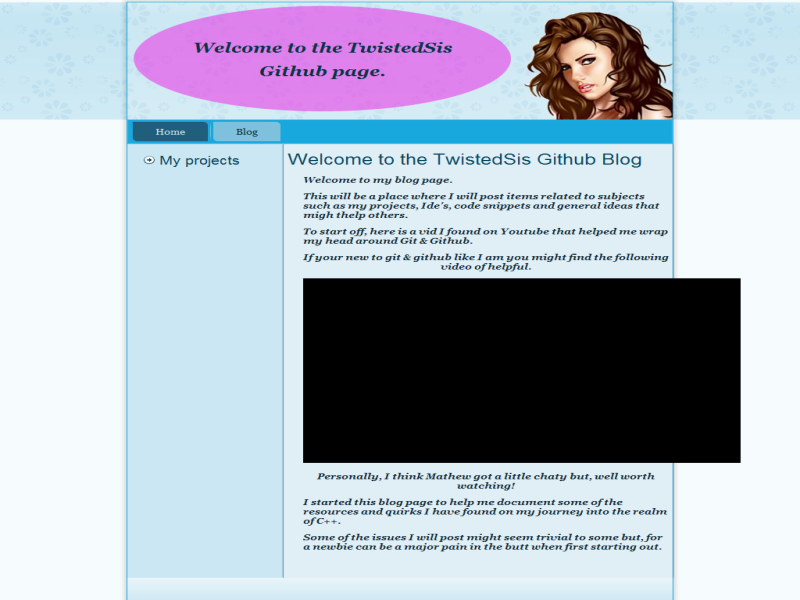
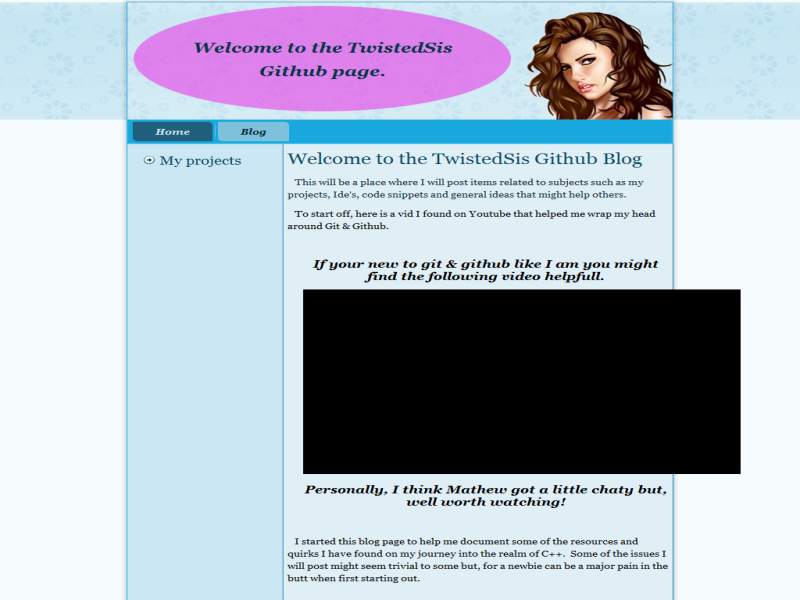
updates

Changed region(s): [[0.1875, 0.21, 0.9375, 0.51], [0.1562, 0.75, 0.9375, 0.99]]

diff --git a/style.css b/style.css
@@ -67,7 +67,8 @@ ul.art-vmenu a
 .art-postcontent a:hover,
 .art-postcontent a.hovered
 {
-   font-family: Arial, 'Arial Unicode MS', Helvetica, Sans-Serif;
+   font-size: 18px;
+   font-family: Georgia, 'Times New Roman', Times, Serif;
 }
 
 .art-postcontent p
@@ -88,7 +89,7 @@ ul.art-vmenu a
 .art-postheader, .art-postheader a, .art-postheader a:link, .art-postheader a:visited, .art-postheader a:hover
 {
    font-size: 26px;
-   font-family: Arial, 'Arial Unicode MS', Helvetica, Sans-Serif;
+   font-family: Georgia, 'Times New Roman', Times, Serif;
    font-weight: normal;
    font-style: normal;
    line-height: 120%;
@@ -96,16 +97,17 @@ ul.art-vmenu a
 
 .art-postcontent a, .art-postcontent a:link
 {
-   font-family: Arial, 'Arial Unicode MS', Helvetica, Sans-Serif;
+   font-size: 18px;
+   font-family: Georgia, 'Times New Roman', Times, Serif;
    text-decoration: none;
-   color: #17A1D4;
+   color: #173DD3;
 }
 
 .art-postcontent a:visited, .art-postcontent a.visited
 {
    font-family: Arial, 'Arial Unicode MS', Helvetica, Sans-Serif;
    text-decoration: none;
-   color: #5AA4C9;
+   color: #173DD3;
 }
 
 .art-postcontent  a:hover, .art-postcontent a.hover
@@ -120,20 +122,20 @@ ul.art-vmenu a
    color: #39BAEA;
    margin: 10px 0 0;
    font-size: 26px;
-   font-family: Arial, 'Arial Unicode MS', Helvetica, Sans-Serif;
+   font-family: Georgia, 'Times New Roman', Times, Serif;
 }
 
 .art-blockcontent h1
 {
    margin: 10px 0 0;
    font-size: 26px;
-   font-family: Arial, 'Arial Unicode MS', Helvetica, Sans-Serif;
+   font-family: Georgia, 'Times New Roman', Times, Serif;
 }
 
 .art-postcontent h1 a, .art-postcontent h1 a:link, .art-postcontent h1 a:hover, .art-postcontent h1 a:visited, .art-blockcontent h1 a, .art-blockcontent h1 a:link, .art-blockcontent h1 a:hover, .art-blockcontent h1 a:visited 
 {
    font-size: 26px;
-   font-family: Arial, 'Arial Unicode MS', Helvetica, Sans-Serif;
+   font-family: Georgia, 'Times New Roman', Times, Serif;
 }
 
 .art-postcontent h2
@@ -141,20 +143,20 @@ ul.art-vmenu a
    color: #39BAEA;
    margin: 10px 0 0;
    font-size: 22px;
-   font-family: Arial, 'Arial Unicode MS', Helvetica, Sans-Serif;
+   font-family: Georgia, 'Times New Roman', Times, Serif;
 }
 
 .art-blockcontent h2
 {
    margin: 10px 0 0;
    font-size: 22px;
-   font-family: Arial, 'Arial Unicode MS', Helvetica, Sans-Serif;
+   font-family: Georgia, 'Times New Roman', Times, Serif;
 }
 
 .art-postcontent h2 a, .art-postcontent h2 a:link, .art-postcontent h2 a:hover, .art-postcontent h2 a:visited, .art-blockcontent h2 a, .art-blockcontent h2 a:link, .art-blockcontent h2 a:hover, .art-blockcontent h2 a:visited 
 {
    font-size: 22px;
-   font-family: Arial, 'Arial Unicode MS', Helvetica, Sans-Serif;
+   font-family: Georgia, 'Times New Roman', Times, Serif;
 }
 
 .art-postcontent h3
@@ -162,20 +164,20 @@ ul.art-vmenu a
    color: #79B5D3;
    margin: 10px 0 0;
    font-size: 20px;
-   font-family: Arial, 'Arial Unicode MS', Helvetica, Sans-Serif;
+   font-family: Georgia, 'Times New Roman', Times, Serif;
 }
 
 .art-blockcontent h3
 {
    margin: 10px 0 0;
    font-size: 20px;
-   font-family: Arial, 'Arial Unicode MS', Helvetica, Sans-Serif;
+   font-family: Georgia, 'Times New Roman', Times, Serif;
 }
 
 .art-postcontent h3 a, .art-postcontent h3 a:link, .art-postcontent h3 a:hover, .art-postcontent h3 a:visited, .art-blockcontent h3 a, .art-blockcontent h3 a:link, .art-blockcontent h3 a:hover, .art-blockcontent h3 a:visited 
 {
    font-size: 20px;
-   font-family: Arial, 'Arial Unicode MS', Helvetica, Sans-Serif;
+   font-family: Georgia, 'Times New Roman', Times, Serif;
 }
 
 .art-postcontent h4
@@ -183,20 +185,20 @@ ul.art-vmenu a
    color: #122A36;
    margin: 10px 0 0;
    font-size: 16px;
-   font-family: Arial, 'Arial Unicode MS', Helvetica, Sans-Serif;
+   font-family: Georgia, 'Times New Roman', Times, Serif;
 }
 
 .art-blockcontent h4
 {
    margin: 10px 0 0;
    font-size: 16px;
-   font-family: Arial, 'Arial Unicode MS', Helvetica, Sans-Serif;
+   font-family: Georgia, 'Times New Roman', Times, Serif;
 }
 
 .art-postcontent h4 a, .art-postcontent h4 a:link, .art-postcontent h4 a:hover, .art-postcontent h4 a:visited, .art-blockcontent h4 a, .art-blockcontent h4 a:link, .art-blockcontent h4 a:hover, .art-blockcontent h4 a:visited 
 {
    font-size: 16px;
-   font-family: Arial, 'Arial Unicode MS', Helvetica, Sans-Serif;
+   font-family: Georgia, 'Times New Roman', Times, Serif;
 }
 
 .art-postcontent h5
@@ -204,20 +206,20 @@ ul.art-vmenu a
    color: #122A36;
    margin: 10px 0 0;
    font-size: 14px;
-   font-family: Arial, 'Arial Unicode MS', Helvetica, Sans-Serif;
+   font-family: Georgia, 'Times New Roman', Times, Serif;
 }
 
 .art-blockcontent h5
 {
    margin: 10px 0 0;
    font-size: 14px;
-   font-family: Arial, 'Arial Unicode MS', Helvetica, Sans-Serif;
+   font-family: Georgia, 'Times New Roman', Times, Serif;
 }
 
 .art-postcontent h5 a, .art-postcontent h5 a:link, .art-postcontent h5 a:hover, .art-postcontent h5 a:visited, .art-blockcontent h5 a, .art-blockcontent h5 a:link, .art-blockcontent h5 a:hover, .art-blockcontent h5 a:visited 
 {
    font-size: 14px;
-   font-family: Arial, 'Arial Unicode MS', Helvetica, Sans-Serif;
+   font-family: Georgia, 'Times New Roman', Times, Serif;
 }
 
 .art-postcontent h6
@@ -225,20 +227,20 @@ ul.art-vmenu a
    color: #2E6B8A;
    margin: 10px 0 0;
    font-size: 13px;
-   font-family: Arial, 'Arial Unicode MS', Helvetica, Sans-Serif;
+   font-family: Georgia, 'Times New Roman', Times, Serif;
 }
 
 .art-blockcontent h6
 {
    margin: 10px 0 0;
    font-size: 13px;
-   font-family: Arial, 'Arial Unicode MS', Helvetica, Sans-Serif;
+   font-family: Georgia, 'Times New Roman', Times, Serif;
 }
 
 .art-postcontent h6 a, .art-postcontent h6 a:link, .art-postcontent h6 a:hover, .art-postcontent h6 a:visited, .art-blockcontent h6 a, .art-blockcontent h6 a:link, .art-blockcontent h6 a:hover, .art-blockcontent h6 a:visited 
 {
    font-size: 13px;
-   font-family: Arial, 'Arial Unicode MS', Helvetica, Sans-Serif;
+   font-family: Georgia, 'Times New Roman', Times, Serif;
 }
 
 header, footer, article, nav, #art-hmenu-bg, .art-sheet, .art-hmenu a, .art-vmenu a, .art-slidenavigator > a, .art-checkbox:before, .art-radiobutton:before
@@ -288,7 +290,7 @@ body
    padding: 0;
    margin:0;
    min-width: 700px;
-   color: #122A36;
+   color: #000000;
 }
 
 .art-header:after, 
@@ -705,8 +707,8 @@ ul.art-hmenu>li>a
 {
    font-size: 14px;
    font-family: Georgia, 'Times New Roman', Times, Serif;
-   font-weight: normal;
-   font-style: normal;
+   font-weight: bold;
+   font-style: italic;
    text-decoration: none;
    text-align: left;
 }
@@ -1034,7 +1036,7 @@ div.art-block img
 {
    color: #094357;
    font-size: 20px;
-   font-family: Arial, 'Arial Unicode MS', Helvetica, Sans-Serif;
+   font-family: Georgia, 'Times New Roman', Times, Serif;
    font-weight: normal;
    font-style: normal;
    margin: 0 10px;
@@ -1853,7 +1855,7 @@ pre
    color: #0A4A61;
    margin: 5px 0;
    font-size: 26px;
-   font-family: Arial, 'Arial Unicode MS', Helvetica, Sans-Serif;
+   font-family: Georgia, 'Times New Roman', Times, Serif;
    font-weight: normal;
    font-style: normal;
 }
@@ -1866,14 +1868,14 @@ pre
 .art-postheader a.hovered
 {
    font-size: 26px;
-   font-family: Arial, 'Arial Unicode MS', Helvetica, Sans-Serif;
+   font-family: Georgia, 'Times New Roman', Times, Serif;
    font-weight: normal;
    font-style: normal;
 }
 
 .art-postheader a, .art-postheader a:link
 {
-   font-family: Arial, 'Arial Unicode MS', Helvetica, Sans-Serif;
+   font-family: Georgia, 'Times New Roman', Times, Serif;
    text-decoration: none;
    text-align: left;
    color: #1490BD;
@@ -1881,7 +1883,7 @@ pre
 
 .art-postheader a:visited, .art-postheader a.visited
 {
-   font-family: Arial, 'Arial Unicode MS', Helvetica, Sans-Serif;
+   font-family: Georgia, 'Times New Roman', Times, Serif;
    text-decoration: none;
    text-align: left;
    color: #3F95C0;
@@ -1889,7 +1891,7 @@ pre
 
 .art-postheader a:hover,  .art-postheader a.hovered
 {
-   font-family: Arial, 'Arial Unicode MS', Helvetica, Sans-Serif;
+   font-family: Georgia, 'Times New Roman', Times, Serif;
    text-decoration: none;
    text-align: left;
    color: #00C7EB;
@@ -2051,37 +2053,37 @@ blockquote p,
 .art-footer h1
 {
    color: #42BEEB;
-   font-family: Arial, 'Arial Unicode MS', Helvetica, Sans-Serif;
+   font-family: Georgia, 'Times New Roman', Times, Serif;
 }
 
 .art-footer h2
 {
    color: #42BEEB;
-   font-family: Arial, 'Arial Unicode MS', Helvetica, Sans-Serif;
+   font-family: Georgia, 'Times New Roman', Times, Serif;
 }
 
 .art-footer h3
 {
    color: #97C6DD;
-   font-family: Arial, 'Arial Unicode MS', Helvetica, Sans-Serif;
+   font-family: Georgia, 'Times New Roman', Times, Serif;
 }
 
 .art-footer h4
 {
    color: #3986AD;
-   font-family: Arial, 'Arial Unicode MS', Helvetica, Sans-Serif;
+   font-family: Georgia, 'Times New Roman', Times, Serif;
 }
 
 .art-footer h5
 {
    color: #3986AD;
-   font-family: Arial, 'Arial Unicode MS', Helvetica, Sans-Serif;
+   font-family: Georgia, 'Times New Roman', Times, Serif;
 }
 
 .art-footer h6
 {
    color: #3986AD;
-   font-family: Arial, 'Arial Unicode MS', Helvetica, Sans-Serif;
+   font-family: Georgia, 'Times New Roman', Times, Serif;
 }
 
 .art-footer img

diff --git a/home.html b/home.html
@@ -56,7 +56,7 @@
 </div></div>
                         <div class="art-layout-cell art-content"><article class="art-post art-article">
                                 <h2 class="art-postheader">Welcome to the TwistedSis Github Blog</h2>
-                                <div class="art-postcontent art-postcontent-0 clearfix"><p style="padding-left: 20px; text-align: left;"><span style="font-weight: bold; font-style: italic; font-family: Georgia;">Welcome to my blog page.</span></p><p style="padding-left: 20px; text-align: left;"><span style="font-weight: bold; font-style: italic; font-family: Georgia;">This will be a place where I will post items related to subjects such as my projects, Ide's, code snippets and general ideas that migh thelp others.</span></p><p style="padding-left: 20px; text-align: left;"><span style="font-weight: bold; font-style: italic; font-family: Georgia;">To start off, here is a vid I found on Youtube that helped me wrap my head around Git &amp; Github.</span></p><p style="padding-left: 20px; text-align: center;"><span style="font-weight: bold; font-style: italic; font-family: Georgia;">If your new to git &amp; github like I am you might find the following video of helpful.</span></p><p style="padding-left: 20px; text-align: center;"><iframe width="560" height="315" src="https://www.youtube.com/embed/U8GBXvdmHT4?wmode=transparent&amp;amp;wmode=transparent" frameborder="0" allow="accelerometer; autoplay; encrypted-media; gyroscope; picture-in-picture" allowfullscreen=""></iframe><br></p><p style="padding-left: 20px; text-align: center;"><span style="font-weight: bold; font-style: italic; font-family: Georgia;">Personally, I think Mathew got a little chaty but, well worth watching!</span></p><p style="padding-left: 20px; text-align: left;"><span style="font-weight: bold; font-style: italic; font-family: Georgia;">I started this blog page to help me document some of the resources and quirks I have found on my journey into the realm of C++.</span></p><p style="padding-left: 20px; text-align: left;"><span style="font-weight: bold; font-style: italic; font-family: Georgia;">Some of the issues I will post might seem trivial to some but, for a newbie can be a major pain in the butt when first starting out.</span></p><p style="padding-left: 20px; text-align: left;"><span style="font-family: Georgia; font-style: italic; font-weight: bold;"><br></span></p></div>
+                                <div class="art-postcontent art-postcontent-0 clearfix"><p><span style="color: rgb(18, 42, 54); font-family: Georgia; font-size: 14px; line-height: normal;">&nbsp; &nbsp;This will be a place where I will post items related to subjects such as my projects, Ide's, code snippets and general ideas that might help others.</span><br></p><p style="text-align: left;"><span style="font-family: Georgia; font-size: 14px;">&nbsp; &nbsp;To start off, here is a vid I found on Youtube that helped me wrap my head around Git &amp; Github.</span></p><p style="padding-left: 20px; text-align: left;"><span style="font-weight: bold; font-style: italic; font-family: Georgia;"><br></span></p><p style="padding-left: 20px; text-align: center;"><span style="font-weight: bold; font-style: italic; font-family: Georgia;">If your new to git &amp; github like I am you might find the following video helpfull.</span></p><p style="padding-left: 20px; text-align: center;"><iframe width="560" height="315" src="https://www.youtube.com/embed/U8GBXvdmHT4?wmode=transparent&amp;amp;wmode=transparent&amp;amp;wmode=transparent&amp;amp;wmode=transparent" frameborder="0" allow="accelerometer; autoplay; encrypted-media; gyroscope; picture-in-picture" allowfullscreen=""></iframe><br></p><p style="padding-left: 20px; text-align: center;"><span style="font-weight: bold; font-style: italic; font-family: Georgia;">Personally, I think Mathew got a little chaty but, well worth watching!</span></p><p style="padding-left: 20px; text-align: center;"><span style="font-weight: bold; font-style: italic; font-family: Georgia;"><br></span></p><p style="text-align: left;"><span style="font-family: Georgia; font-size: 14px;">&nbsp; &nbsp;I started this blog page to help me document some of the resources and quirks I have found on my journey into the realm of C++. &nbsp;</span><span style="font-family: Georgia; font-size: 14px;">Some of the issues I will post might seem trivial to some but, for a newbie can be a major pain in the butt when first starting out.</span></p><p style="padding-left: 20px; text-align: left;"><span style="font-family: Georgia; font-style: italic; font-weight: bold;"><br></span></p></div>
 
 
 </article></div>

diff --git a/index.html b/index.html
@@ -56,7 +56,7 @@
 </div></div>
                         <div class="art-layout-cell art-content"><article class="art-post art-article">
                                 <h2 class="art-postheader">Welcome to the TwistedSis Github Blog</h2>
-                                <div class="art-postcontent art-postcontent-0 clearfix"><p style="padding-left: 20px; text-align: left;"><span style="font-weight: bold; font-style: italic; font-family: Georgia;">Welcome to my blog page.</span></p><p style="padding-left: 20px; text-align: left;"><span style="font-weight: bold; font-style: italic; font-family: Georgia;">This will be a place where I will post items related to subjects such as my projects, Ide's, code snippets and general ideas that migh thelp others.</span></p><p style="padding-left: 20px; text-align: left;"><span style="font-weight: bold; font-style: italic; font-family: Georgia;">To start off, here is a vid I found on Youtube that helped me wrap my head around Git &amp; Github.</span></p><p style="padding-left: 20px; text-align: center;"><span style="font-weight: bold; font-style: italic; font-family: Georgia;">If your new to git &amp; github like I am you might find the following video of helpful.</span></p><p style="padding-left: 20px; text-align: center;"><iframe width="560" height="315" src="https://www.youtube.com/embed/U8GBXvdmHT4?wmode=transparent&amp;amp;wmode=transparent" frameborder="0" allow="accelerometer; autoplay; encrypted-media; gyroscope; picture-in-picture" allowfullscreen=""></iframe><br></p><p style="padding-left: 20px; text-align: center;"><span style="font-weight: bold; font-style: italic; font-family: Georgia;">Personally, I think Mathew got a little chaty but, well worth watching!</span></p><p style="padding-left: 20px; text-align: left;"><span style="font-weight: bold; font-style: italic; font-family: Georgia;">I started this blog page to help me document some of the resources and quirks I have found on my journey into the realm of C++.</span></p><p style="padding-left: 20px; text-align: left;"><span style="font-weight: bold; font-style: italic; font-family: Georgia;">Some of the issues I will post might seem trivial to some but, for a newbie can be a major pain in the butt when first starting out.</span></p><p style="padding-left: 20px; text-align: left;"><span style="font-family: Georgia; font-style: italic; font-weight: bold;"><br></span></p></div>
+                                <div class="art-postcontent art-postcontent-0 clearfix"><p><span style="color: rgb(18, 42, 54); font-family: Georgia; font-size: 14px; line-height: normal;">&nbsp; &nbsp;This will be a place where I will post items related to subjects such as my projects, Ide's, code snippets and general ideas that might help others.</span><br></p><p style="text-align: left;"><span style="font-family: Georgia; font-size: 14px;">&nbsp; &nbsp;To start off, here is a vid I found on Youtube that helped me wrap my head around Git &amp; Github.</span></p><p style="padding-left: 20px; text-align: left;"><span style="font-weight: bold; font-style: italic; font-family: Georgia;"><br></span></p><p style="padding-left: 20px; text-align: center;"><span style="font-weight: bold; font-style: italic; font-family: Georgia;">If your new to git &amp; github like I am you might find the following video helpfull.</span></p><p style="padding-left: 20px; text-align: center;"><iframe width="560" height="315" src="https://www.youtube.com/embed/U8GBXvdmHT4?wmode=transparent&amp;amp;wmode=transparent&amp;amp;wmode=transparent&amp;amp;wmode=transparent" frameborder="0" allow="accelerometer; autoplay; encrypted-media; gyroscope; picture-in-picture" allowfullscreen=""></iframe><br></p><p style="padding-left: 20px; text-align: center;"><span style="font-weight: bold; font-style: italic; font-family: Georgia;">Personally, I think Mathew got a little chaty but, well worth watching!</span></p><p style="padding-left: 20px; text-align: center;"><span style="font-weight: bold; font-style: italic; font-family: Georgia;"><br></span></p><p style="text-align: left;"><span style="font-family: Georgia; font-size: 14px;">&nbsp; &nbsp;I started this blog page to help me document some of the resources and quirks I have found on my journey into the realm of C++. &nbsp;</span><span style="font-family: Georgia; font-size: 14px;">Some of the issues I will post might seem trivial to some but, for a newbie can be a major pain in the butt when first starting out.</span></p><p style="padding-left: 20px; text-align: left;"><span style="font-family: Georgia; font-style: italic; font-weight: bold;"><br></span></p></div>
 
 
 </article></div>
